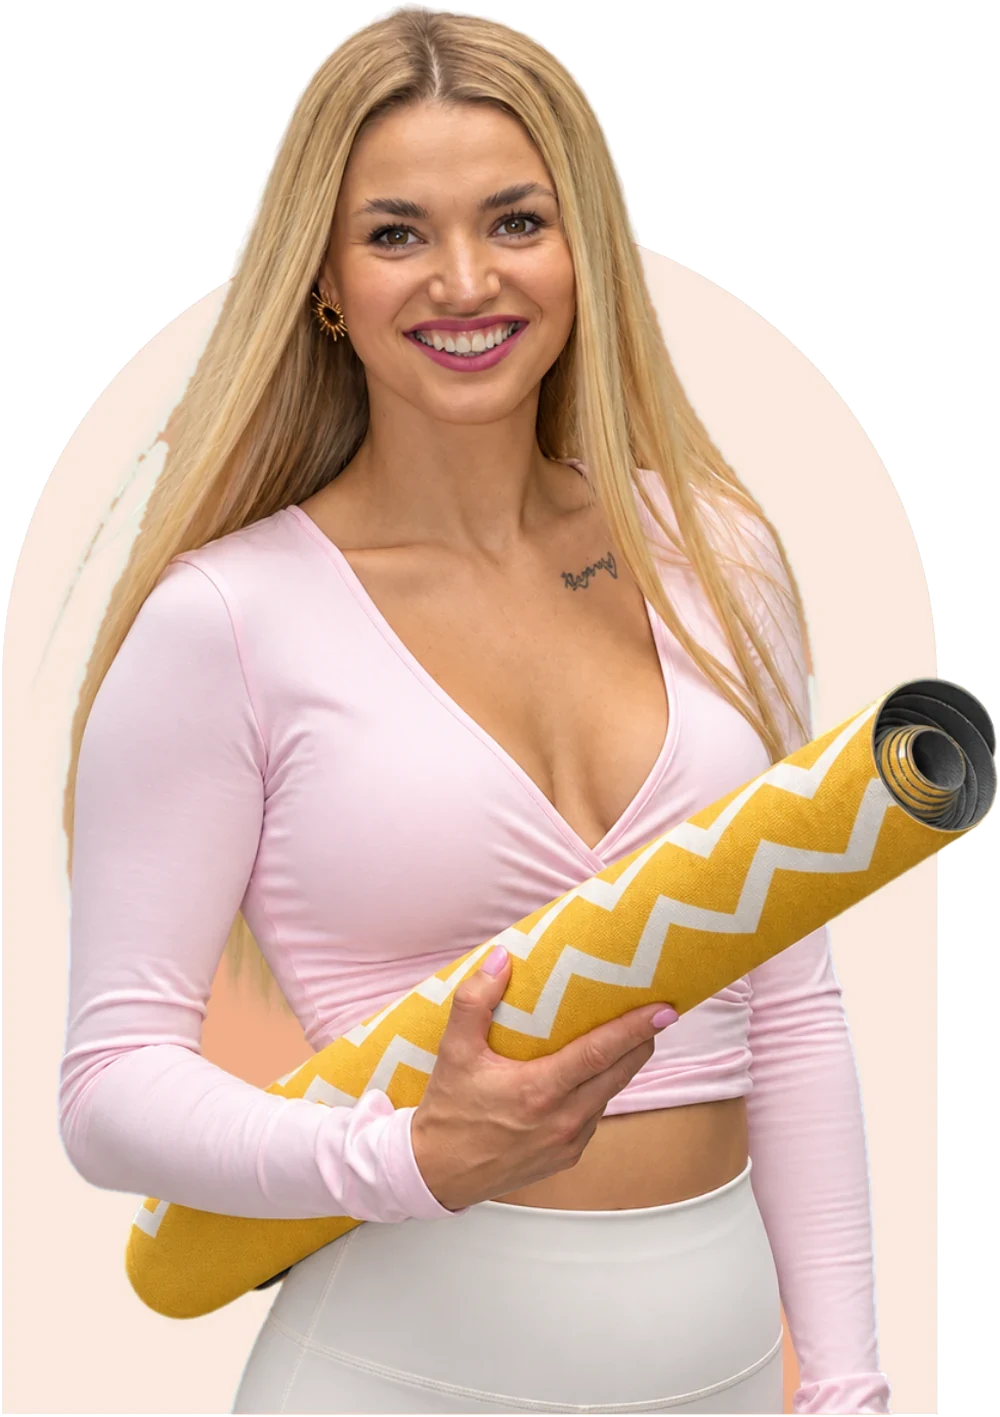
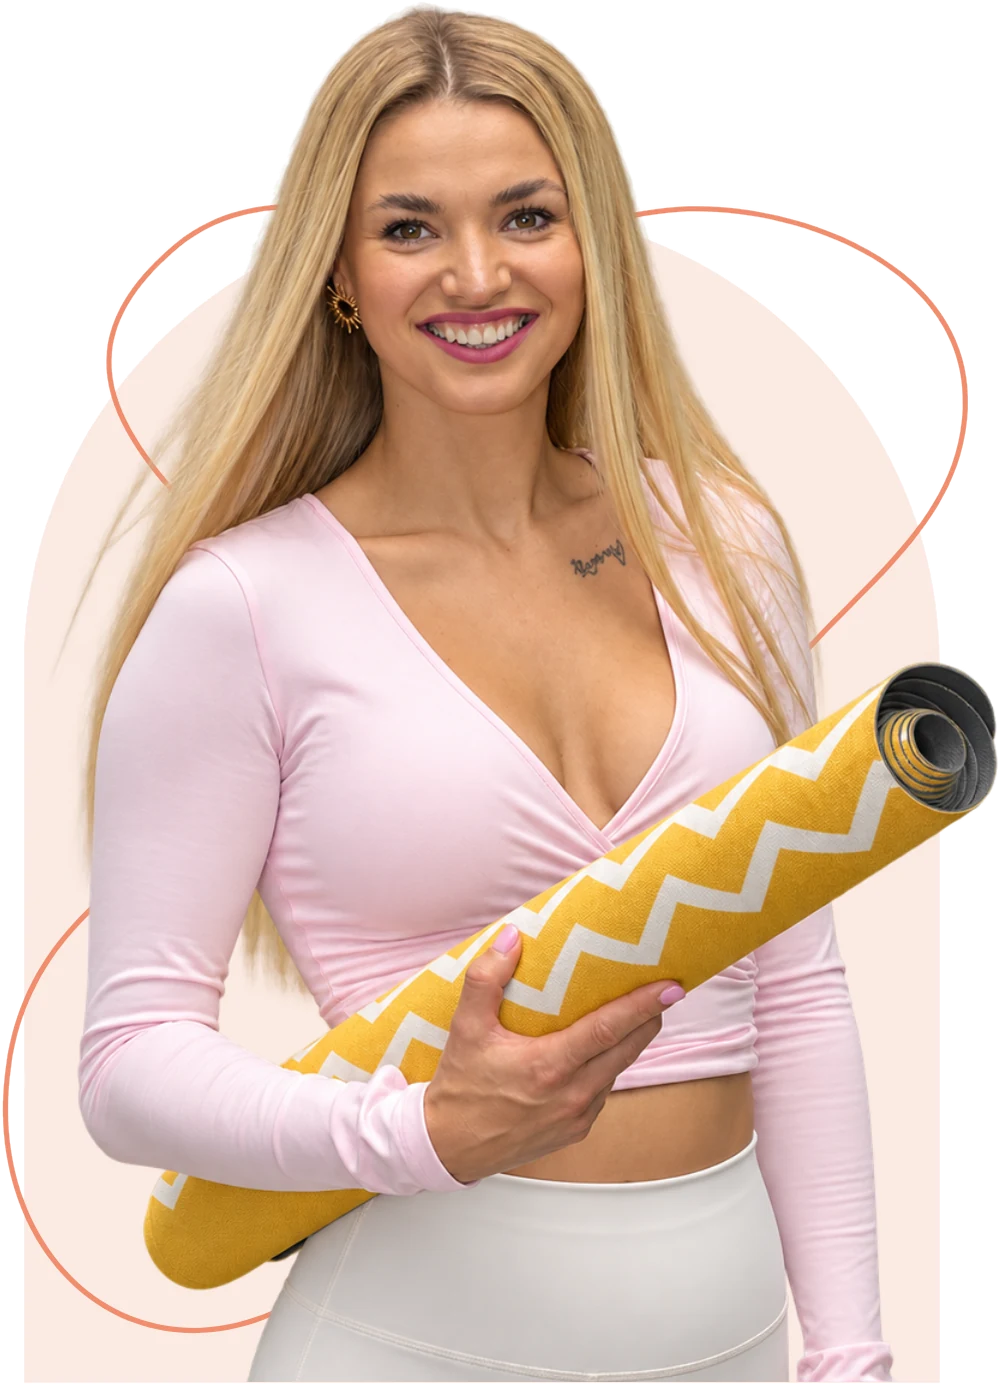
Vyměnit úvodní fotku na O mně za novou verzi s korálovou linkou
Bílé pozadí převedeno na průhledné. Kromě pozadí kolem obrázku musely
zprůhlednět i plochy uvnitř korálových smyček — jsou to uzavřené bílé
oblasti, které výplň od okraje nezasáhne, a na krémovém podkladu by
svítily jako bílé kaňky. Bere je podle velikosti (nad 1500 px) a polohy,
takže drobné bílé plochy uvnitř postavy zůstaly kryté.

Poměr stran rámu upraven na nový (1000/1385).

Claude-Session: https://claude.ai/code/session_01S6UAgFvmtPVymEr2fesuqJ

diff --git a/src/app/o-mne/page.tsx b/src/app/o-mne/page.tsx
@@ -241,7 +241,7 @@ export default function OMnePage() {
               <FadeUp delay={0.1} className="lg:h-full">
                 <div className="relative lg:h-full">
                   <div className="lg:absolute lg:inset-0 lg:flex lg:justify-center">
-                    <div className="relative mx-auto aspect-[1000/1417] w-full max-w-[15rem] sm:max-w-xs lg:mx-0 lg:h-full lg:w-auto lg:max-w-none">
+                    <div className="relative mx-auto aspect-[1000/1385] w-full max-w-[15rem] sm:max-w-xs lg:mx-0 lg:h-full lg:w-auto lg:max-w-none">
                       <Image
                         src="/anezka-oblouk.webp"
                         alt="Anežka se srolovanou podložkou"
